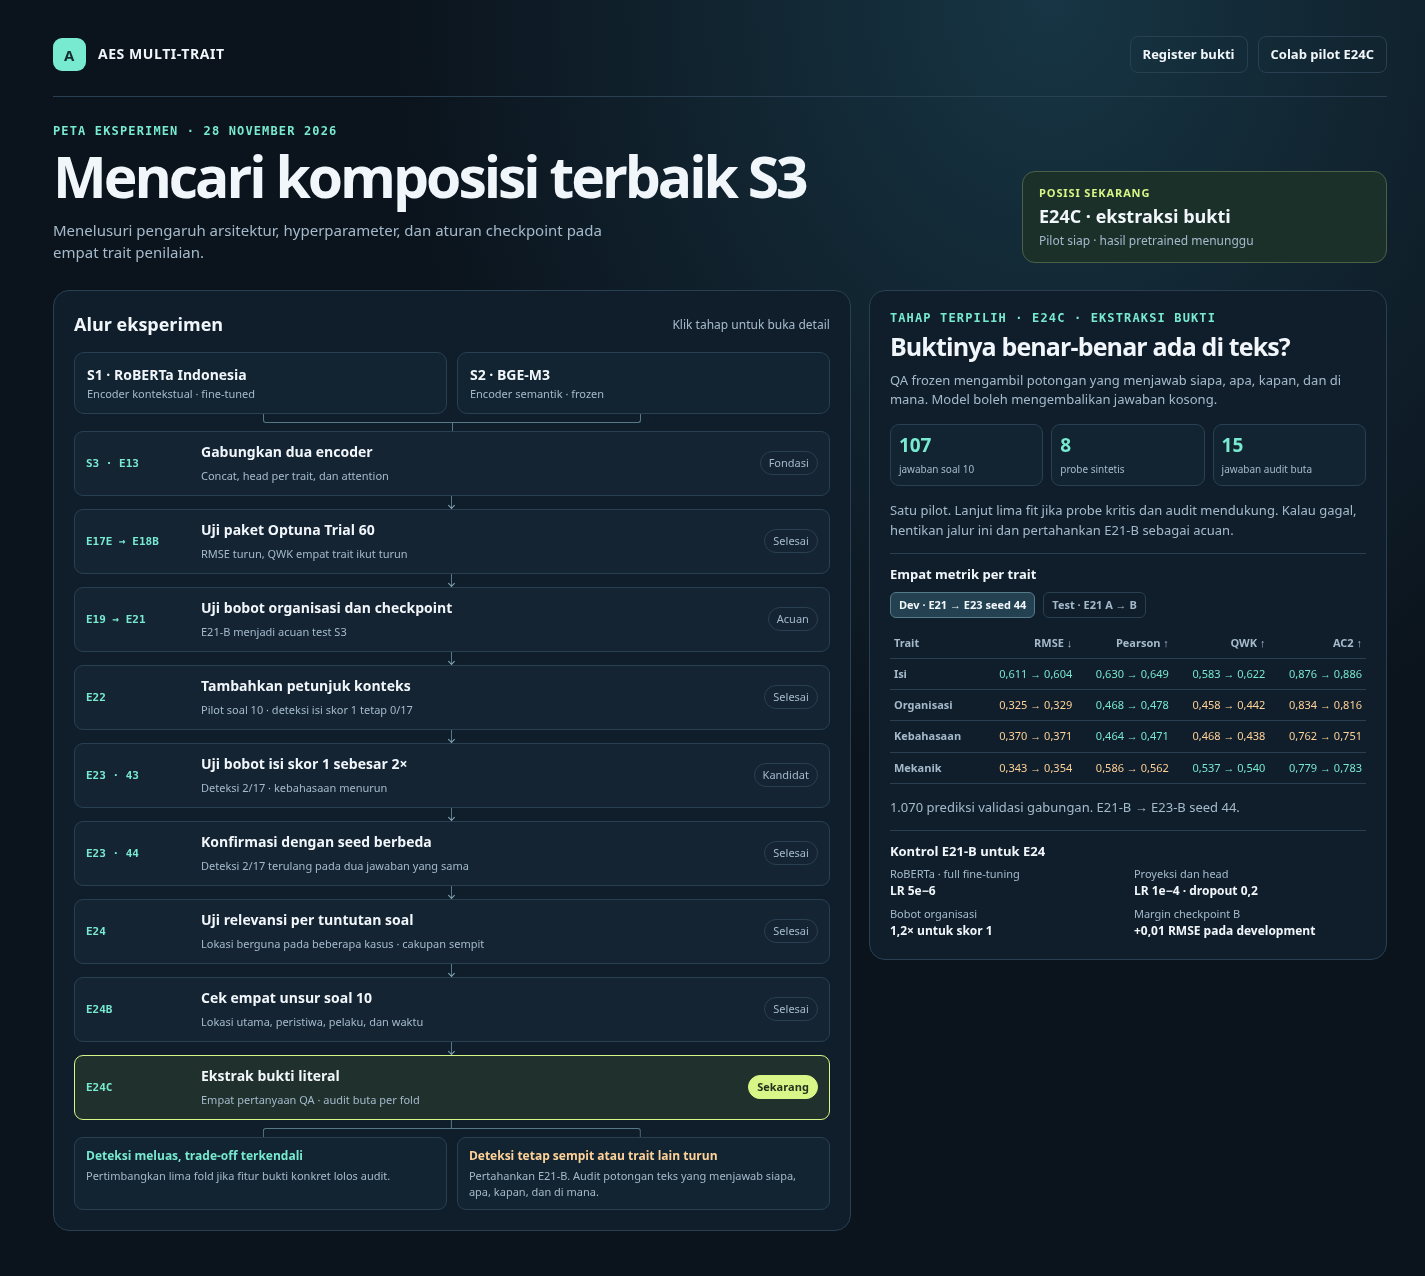
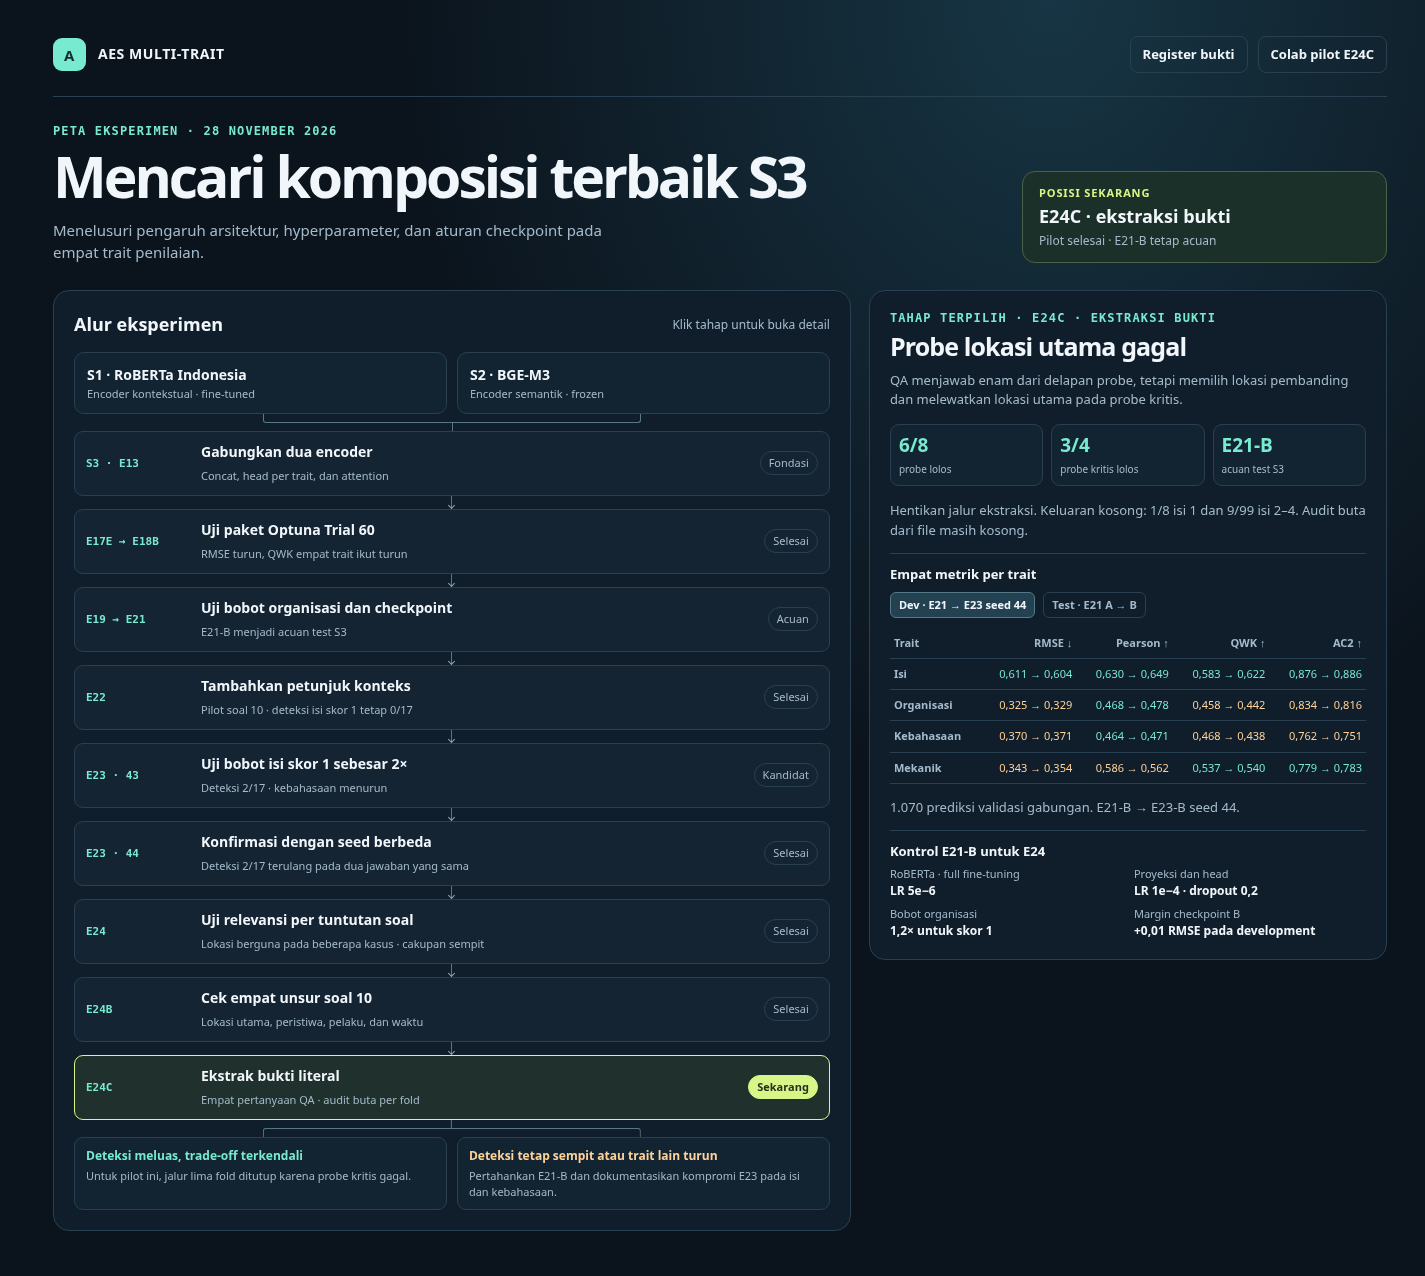
Archive E24C results and close the extractive QA pilot

diff --git a/docs/skripsi/progres/Progress_AES_MultiTrait.html b/docs/skripsi/progres/Progress_AES_MultiTrait.html
@@ -88,7 +88,7 @@ td.good{color:var(--mint)} td.bad{color:var(--warm)} .recipe{display:grid;grid-t
 </header>
 <section class="hero">
   <div><div class="eyebrow">Peta eksperimen · 28 November 2026</div><h1>Mencari komposisi terbaik S3</h1><p class="desc">Menelusuri pengaruh arsitektur, hyperparameter, dan aturan checkpoint pada empat trait penilaian.</p></div>
-  <div class="current"><div class="current-tag">Posisi sekarang</div><div class="current-title">E24C · ekstraksi bukti</div><p class="desc">Pilot siap · hasil pretrained menunggu</p></div>
+  <div class="current"><div class="current-tag">Posisi sekarang</div><div class="current-title">E24C · ekstraksi bukti</div><p class="desc">Pilot selesai · E21-B tetap acuan</p></div>
 </section>
 
 <main class="grid">
@@ -120,8 +120,8 @@ td.good{color:var(--mint)} td.bad{color:var(--warm)} .recipe{display:grid;grid-t
   </div>
   <div class="fork" aria-hidden="true" style="transform:rotate(180deg)"></div>
   <div class="branch" aria-label="Keputusan setelah konfirmasi">
-    <article><h3>Deteksi meluas, trade-off terkendali</h3><p>Pertimbangkan lima fold jika fitur bukti konkret lolos audit.</p></article>
-    <article><h3>Deteksi tetap sempit atau trait lain turun</h3><p>Pertahankan E21-B. Audit potongan teks yang menjawab siapa, apa, kapan, dan di mana.</p></article>
+    <article><h3>Deteksi meluas, trade-off terkendali</h3><p>Untuk pilot ini, jalur lima fold ditutup karena probe kritis gagal.</p></article>
+    <article><h3>Deteksi tetap sempit atau trait lain turun</h3><p>Pertahankan E21-B dan dokumentasikan kompromi E23 pada isi dan kebahasaan.</p></article>
   </div>
 </section>
 
@@ -166,7 +166,7 @@ weight: {label:"E23 seed 43",title:"Deteksi isi naik, ada trade-off",text:"Bobot
 confirm: {label:"E23 seed 44",title:"Dua kasus yang sama kembali terdeteksi",text:"Deteksi isi skor 1 tetap pada dua jawaban soal 10 di fold 4. QWK isi naik dari 0,5834 pada E21-B ke 0,6220, tetapi QWK kebahasaan dan organisasi turun.",metrics:[["2/17","deteksi isi 1"],["0,4283","RMSE rata-rata fold"],["0,5058","macro QWK rata-rata fold"]],note:"Tiga skor 2–4 keliru turun ke 1. E21-B tetap acuan test S3."},
 pilot: {label:"E24 · pilot selesai",title:"Lokasi saja belum cukup",text:"Model NLI frozen mengenali beberapa kasus di luar konteks. Pada soal 10, dukungan sekolah rendah muncul pada 2 dari 8 skor isi 1 dan 2 dari 98 skor lebih tinggi.",metrics:[["5/5","arah sintetis sesuai"],["106/107","skor jawaban utuh"],["E21-B","acuan test S3"]],note:"Sebelum lima fit, perluas pilot ke lokasi kejadian utama, peristiwa, pelaku, dan waktu. Cek bukti jawaban utuh dan konflik antarkutipan."},
 four: {label:"E24B · pilot empat unsur",title:"Empat unsur menandai hampir semua jawaban",text:"Empat unsur menandai 8/8 jawaban isi 1 dan 97/98 jawaban isi 2–4. Cek lokasi E24 menandai masing-masing dua kasus.",metrics:[["106","jawaban utuh"],["3/5","arah probe sesuai"],["E21-B","acuan test S3"]],note:"Tahan lima fit. Jika eksplorasi diteruskan, audit potongan bukti konkret yang terkait dengan kejadian utama."},
-now: {label:"E24C · ekstraksi bukti",title:"Buktinya benar-benar ada di teks?",text:"QA frozen mengambil potongan yang menjawab siapa, apa, kapan, dan di mana. Model boleh mengembalikan jawaban kosong.",metrics:[["107","jawaban soal 10"],["8","probe sintetis"],["15","jawaban audit buta"]],note:"Satu pilot. Lanjut lima fit jika probe kritis dan audit mendukung. Kalau gagal, hentikan jalur ini dan pertahankan E21-B sebagai acuan."}
+now: {label:"E24C · ekstraksi bukti",title:"Probe lokasi utama gagal",text:"QA menjawab enam dari delapan probe, tetapi memilih lokasi pembanding dan melewatkan lokasi utama pada probe kritis.",metrics:[["6/8","probe lolos"],["3/4","probe kritis lolos"],["E21-B","acuan test S3"]],note:"Hentikan jalur ekstraksi. Keluaran kosong: 1/8 isi 1 dan 9/99 isi 2–4. Audit buta dari file masih kosong."}
 };
 const tables={"development": [{"trait": "Isi", "left": [0.6106535503486199, 0.6302990246280895, 0.5834304644373294, 0.8764803784828475], "right": [0.6036927758864785, 0.6487757261658006, 0.6219890113697824, 0.8859782280967115]}, {"trait": "Organisasi", "left": [0.3254835273684586, 0.4682349512509877, 0.4582036427539578, 0.8340044487537787], "right": [0.3293656844558424, 0.4777037252453203, 0.4417417544453375, 0.8161277213352687]}, {"trait": "Kebahasaan", "left": [0.3698609641979615, 0.4636548079203568, 0.4684670445051595, 0.7620936566730506], "right": [0.3709024804709048, 0.4706563564059207, 0.4383473025348852, 0.7505552492714814]}, {"trait": "Mekanik", "left": [0.3433743129589874, 0.5861070101411148, 0.5368591911267415, 0.7793734825483394], "right": [0.3542401046526248, 0.5615640069774904, 0.5396596324029952, 0.782847718526663]}], "test": [{"trait": "Isi", "left": [0.662676660630752, 0.449691021945006, 0.412532637075718, 0.8604836803324158], "right": [0.6635267458287767, 0.4539510221342545, 0.4211833584671338, 0.8596514288787054]}, {"trait": "Organisasi", "left": [0.3124135372625135, 0.3956543770320512, 0.3274725274725275, 0.8453191345959427], "right": [0.3167215121532097, 0.3937522182922586, 0.3466192170818505, 0.844200807847663]}, {"trait": "Kebahasaan", "left": [0.3857213069841015, 0.4840550097430594, 0.3793103448275863, 0.6909997547617102], "right": [0.3867025278766675, 0.4749433933756147, 0.357947434292866, 0.6885277420791127]}, {"trait": "Mekanik", "left": [0.3223247722548008, 0.6112107085988246, 0.5263157894736842, 0.7924325602941031], "right": [0.3280915749078391, 0.595568372884082, 0.5351576658209496, 0.7984282907662082]}]};
 const displayNum=n=>n.toFixed(3).replace(".",",");

diff --git a/scripts/build_aes_evidence_register.py b/scripts/build_aes_evidence_register.py
@@ -291,6 +291,7 @@ def build_workbook():
         status = ('Hasil terarsip' if archive else 'Menunggu ZIP seed 44' if run == 'E23-Seed44'
                   else 'Hasil pilot terarsip' if run == 'E24' and (ARCHIVE / 'E24/Ringkasan_Pilot_NLI.json').exists()
                   else 'Hasil pilot terarsip' if run == 'E24B' and (ARCHIVE / 'E24B/Ringkasan_Pilot_Empat_Unsur.json').exists()
+                  else 'Hasil pilot terarsip' if run == 'E24C' and (ARCHIVE / 'E24C/Ringkasan_Pilot_Ekstraksi_Bukti.json').exists()
                   else 'Arsip repo sebelumnya' if run in ('E1','E2','E3','E4','E17D')
                   else 'Dinonaktifkan' if run == 'E18A' else 'Resep tersedia')
         notebooks.append((run, intro, status, link, fingerprint, code_hash))

diff --git a/eksperimen/03_tiga_input_multi_trait/README.md b/eksperimen/03_tiga_input_multi_trait/README.md
@@ -33,7 +33,7 @@ E4 terbaik nominal, tetapi peningkatan test terhadap E2 hanya 0,000101 poin (0,0
 | E23 konfirmasi | Bobot isi 2× pada lima fold yang sama dengan seed dasar 44 | 0,428296 (B) | — | [File](notebooks/AES_Reset_E23_Konfirmasi_Seed44.ipynb) | [Arsip](output/checkpoints/E23-Seed44.json) |
 | E24 | Pilot NLI frozen untuk cek konteks sekolah/rumah di soal 10 | Pilot selesai | — | [File](notebooks/AES_Reset_E24_Pilot_Bukti_Konteks_NLI.ipynb) | [Hasil pilot](output/checkpoints/E24/README.md) |
 | E24B | Pilot NLI frozen untuk empat unsur soal 10, dibandingkan dengan lokasi E24 | Pilot selesai | — | [File](notebooks/AES_Reset_E24B_Pilot_Empat_Unsur_NLI.ipynb) | [Hasil pilot](output/checkpoints/E24B/README.md) |
-| E24C | Pilot QA ekstraktif untuk empat unsur soal 10 dan audit buta | Siap dijalankan | — | [File](notebooks/AES_Reset_E24C_Pilot_Ekstraksi_Bukti_QA.ipynb) | — |
+| E24C | Pilot QA ekstraktif untuk empat unsur soal 10 dan audit buta | Pilot selesai | — | [File](notebooks/AES_Reset_E24C_Pilot_Ekstraksi_Bukti_QA.ipynb) | [Hasil pilot](output/checkpoints/E24C/README.md) |
 | E18A | BGE relevance/cosine pada trait Isi. | Dinonaktifkan; jangan diperlakukan sebagai jalur aktif. | [Branch E18A](https://github.com/MalikHariyanto/Automated_Essay_Scoring/tree/codex/e18a-isi-bge-relevance) |
 
 [Register paper dan konfigurasi](../../docs/skripsi/Register_Bukti_AES_MultiTrait.xlsx) · [Arsip checkpoint](output/checkpoints/README.md)

diff --git a/eksperimen/03_tiga_input_multi_trait/output/checkpoints/E24C/README.md b/eksperimen/03_tiga_input_multi_trait/output/checkpoints/E24C/README.md
@@ -1,0 +1,15 @@
+# E24C · Hasil pilot ekstraksi bukti
+
+[Ringkasan numerik dan checksum](Ringkasan_Pilot_Ekstraksi_Bukti.json). Inferensi mDeBERTa QA frozen pada 107 jawaban development soal 10 dengan split E21.
+
+Enam dari delapan probe lolos. Tiga dari empat probe kritis lolos. Probe lokasi pembanding gagal karena model memilih lokasi yang disebut sebagai kebiasaan dan melewatkan lokasi kejadian utama. Probe lokasi di ujung teks panjang juga gagal. Kolom audit buta untuk 15 jawaban masih kosong.
+
+| Pilot | Label isi 1 ditandai | Label isi 2–4 ikut ditandai |
+|---|---:|---:|
+| E24 · dukungan lokasi rendah | 2/8 | 2/98 |
+| E24B · minimal satu unsur dengan dukungan rendah | 8/8 | 97/98 |
+| E24C · model mengembalikan minimal satu bukti kosong | 1/8 | 9/99 |
+
+E24 dan E24B memakai 106 jawaban utuh, sedangkan E24C memakai 107 jawaban. Keluaran kosong dan skor dukungan rendah merupakan dua aturan audit yang berbeda. Potongan terisi masih dapat salah konteks. Hitungan ini belum mengukur ketepatan ekstraksi pada development atau performa scoring S3.
+
+**Keputusan.** Hentikan jalur ekstraksi ini sesuai kriteria pilot dan pertahankan E21-B sebagai acuan test S3. E23 bobot isi 2× tetap kandidat development dengan deteksi 2/17 pada dua seed dan penurunan QWK kebahasaan. Pilot E24C tidak membuka test atau melatih S3. Jawaban dan kutipan siswa tetap privat.

diff --git a/eksperimen/03_tiga_input_multi_trait/output/checkpoints/README.md b/eksperimen/03_tiga_input_multi_trait/output/checkpoints/README.md
@@ -7,6 +7,7 @@ Folder ini menyimpan konfigurasi efektif dan bukti agregat yang bisa dipakai kem
 | JSON per run | Model dan revisi, hyperparameter, split dan kode, hash ZIP/Excel, epoch A/B, metrik tiap trait, deteksi skor rendah, bobot dan riwayat training agregat |
 | E24 | [Ringkasan pilot NLI](E24/README.md) dan checksum terpisah dari hasil CV. |
 | E24B | [Ringkasan pilot empat unsur](E24B/README.md), dibandingkan dengan kontrol lokasi E24. |
+| E24C | [Ringkasan pilot ekstraksi bukti](E24C/README.md) dan keputusan akhir jalur pilot. |
 | E17E | Trial pencarian, lima-fold konfirmasi, cek stabilitas, dan konfigurasi akhir. ID 52 dan 60 adalah kandidat dari tahap berbeda. |
 | E14 / E14-S1S2 | Workbook dari unggahan terpisah, dipadankan dengan checksum pada manifest asli dan dikemas sementara untuk proses ekspor. Kolom skenario pada E14-S1S2 membedakan S1 dan S2. |
 | E5 | Pasangan workbook unggahan dengan metadata dataset, split, kode, dan konfigurasi identik. Checksum dibuat dari pasangan tersebut karena manifest run asli belum tersedia. |
